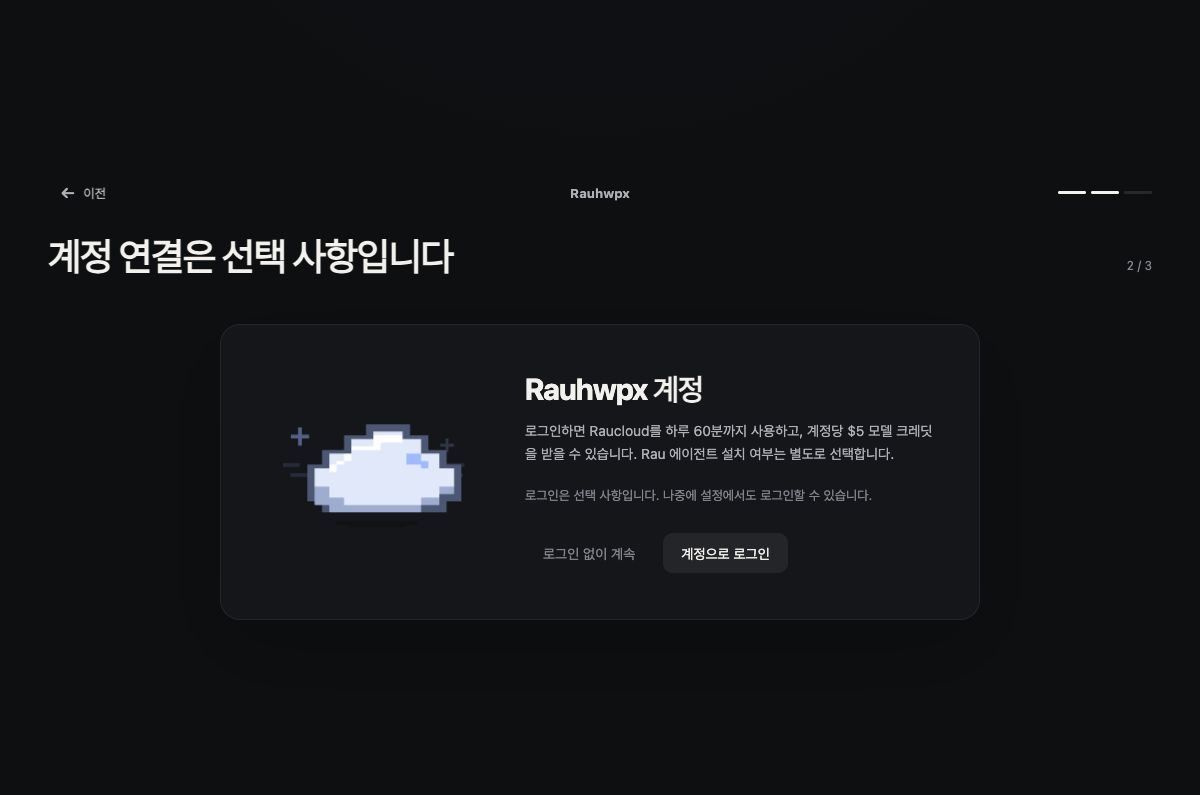
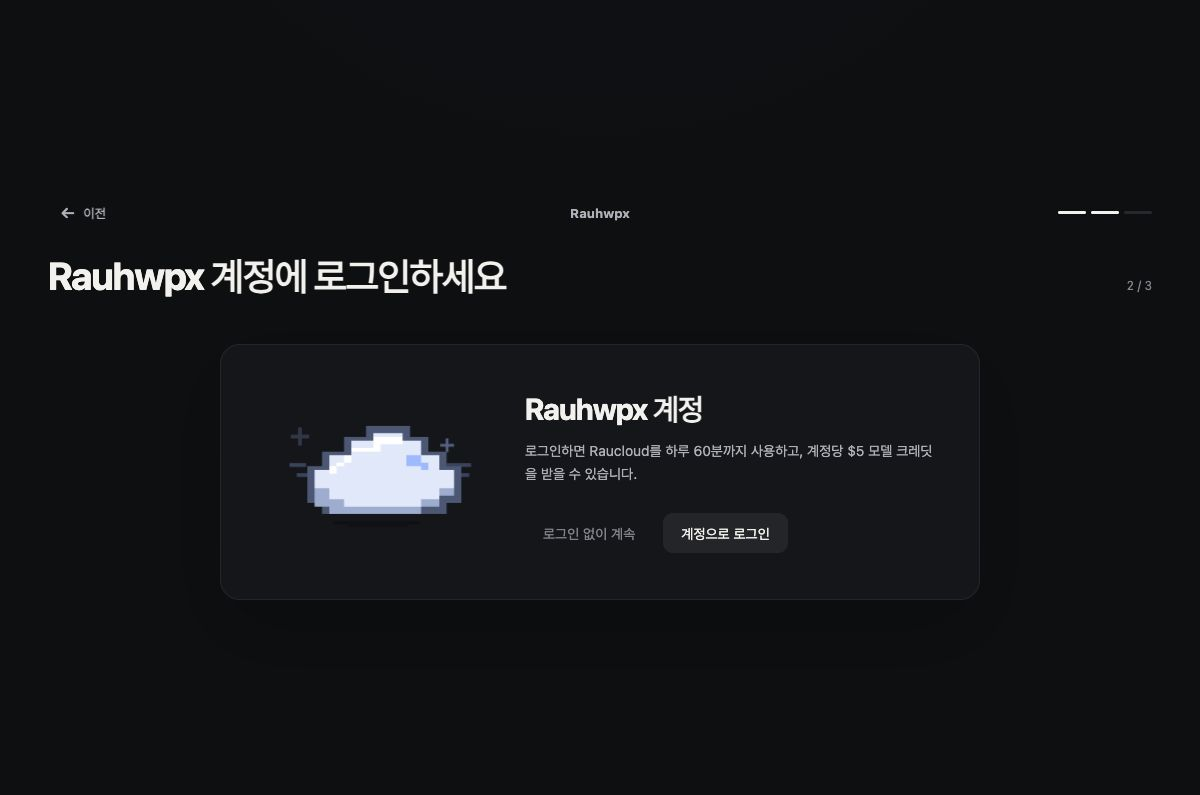
fix(studio): trim optional account copy

diff --git a/rhwp/rhwp-studio/src/ui/initial-setup/initial-setup.ts b/rhwp/rhwp-studio/src/ui/initial-setup/initial-setup.ts
@@ -181,9 +181,9 @@ export function createInitialSetup(deps: InitialSetupDeps): InitialSetupUi {
   const accountCopy = el(
     'p',
     'rhwp-setup-account-copy',
-    '로그인하면 Raucloud를 하루 60분까지 사용하고, 계정당 $5 모델 크레딧을 받을 수 있습니다. Rau 에이전트 설치 여부는 별도로 선택합니다.',
+    '로그인하면 Raucloud를 하루 60분까지 사용하고, 계정당 $5 모델 크레딧을 받을 수 있습니다.',
   );
-  const accountState = el('p', 'rhwp-setup-account-state', '로그인하지 않아도 로컬 편집과 내 서버 Cloud를 사용할 수 있습니다.');
+  const accountState = el('p', 'rhwp-setup-account-state');
   accountState.setAttribute('role', 'status');
   accountState.setAttribute('aria-live', 'polite');
   const accountActions = el('div', 'rhwp-setup-account-actions');
@@ -271,8 +271,8 @@ export function createInitialSetup(deps: InitialSetupDeps): InitialSetupUi {
     accountState.textContent = accountMessage || (signedIn
       ? `${account?.account?.email ?? '계정'}으로 로그인했습니다. Cloud 사용량은 설정에서 확인할 수 있습니다.`
       : loginAccount
-        ? '로그인은 선택 사항입니다. 나중에 설정에서도 로그인할 수 있습니다.'
-        : '이 환경에서는 계정 로그인을 열 수 없습니다. 나중에 데스크톱 설정에서 연결할 수 있습니다.');
+        ? ''
+        : '이 환경에서는 계정 로그인을 열 수 없습니다.');
   }
 
   async function refreshAccount(): Promise<void> {
@@ -304,7 +304,7 @@ export function createInitialSetup(deps: InitialSetupDeps): InitialSetupUi {
     title.textContent = providers
       ? '모델을 연결하세요'
       : nextStage === 'account'
-        ? '계정 연결은 선택 사항입니다'
+        ? 'Rauhwpx 계정에 로그인하세요'
         : '문체를 맞추세요';
     back.setAttribute('aria-label', nextStage === 'calibration'
       ? '계정 연결 단계로 돌아가기'

diff --git a/rhwp/rhwp-studio/src/ui/initial-setup/initial-setup.css b/rhwp/rhwp-studio/src/ui/initial-setup/initial-setup.css
@@ -521,6 +521,10 @@
   line-height: 1.55;
 }
 
+.rhwp-setup-account-state:empty {
+  display: none;
+}
+
 .rhwp-setup-account[data-signed-in='true'] .rhwp-setup-account-state {
   color: #b7c9ad;
 }
